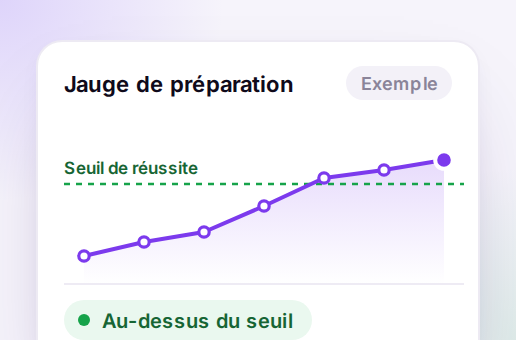
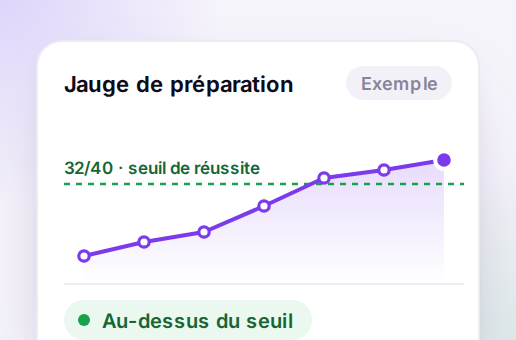
Newsletter CiviCap : textes qui disent quelque chose, visuel en français
Accroche : « 40 questions, 45 minutes, 32 bonnes réponses exigées » et
« Gratuit, sans carte bancaire » sont retirés. Le sous-titre dit
l'obligation et ce qui en dépend : depuis le 1er janvier 2026, pas de
carte de séjour pluriannuelle, de carte de résident ni de naturalisation
sans l'attestation ; CiviCap entraîne les apprenants à l'obtenir. Le
bouton d'essai est réduit.

Visuel principal : plus d'arabe ni d'anglais. L'explication passe en
français, traduite de la version arabe de la démonstration du site, la
seule présente dans la copie transmise ; à remplacer par le texte exact.

Grille : l'introduction répond à son titre (examens blancs, correction,
mesure des progrès, et le temps rendu aux formateurs). L'examen blanc
dit ce qu'il est, 40 questions en 45 minutes aux règles officielles, et
à quoi il sert. La jauge nomme son seuil, 32/40, dans le texte comme
dans le visuel.

Bloc organisme : un vrai texte à la place du gabarit, sans prix, faute
d'en avoir un. Pied : les mentions d'indépendance et de source sont
retirées, il reste le désabonnement et l'adresse.

Claude-Session: https://claude.ai/code/session_01FeZWDqfAndBDqFz8uAYmmt

Changed region(s): [[0.3101, 0.4706, 0.5271, 0.5294], [0.124, 0.4706, 0.2791, 0.5294]]

diff --git a/travaux/newsletter-civicap/email.html b/travaux/newsletter-civicap/email.html
@@ -34,7 +34,7 @@
 
 <!-- texte d'aperçu affiché après l'objet dans la boîte de réception -->
 <div style="display:none;max-height:0;overflow:hidden;mso-hide:all;font-size:1px;line-height:1px;color:#F3F2F7;">
-  Ce que la liste officielle ne fera pas pour vos apprenants.
+  Examens blancs, correction, mesure des progrès : CiviCap s’en charge pour vous.
   &#8199;&#847;&zwnj;&nbsp;&#8199;&#847;&zwnj;&nbsp;&#8199;&#847;&zwnj;&nbsp;&#8199;&#847;&zwnj;&nbsp;&#8199;&#847;&zwnj;&nbsp;&#8199;&#847;&zwnj;&nbsp;&#8199;&#847;&zwnj;&nbsp;&#8199;&#847;&zwnj;&nbsp;&#8199;&#847;&zwnj;&nbsp;&#8199;&#847;&zwnj;&nbsp;&#8199;&#847;&zwnj;&nbsp;&#8199;&#847;&zwnj;&nbsp;
 </div>
 
@@ -55,17 +55,17 @@
     <h1 class="h1" style="margin:20px 0 0;font-family:Inter,-apple-system,BlinkMacSystemFont,'Segoe UI',Roboto,Helvetica,Arial,sans-serif;font-size:34px;line-height:1.12;letter-spacing:-.035em;font-weight:800;color:#0F0A1A;">
       L’examen civique est&nbsp;obligatoire.<br><span style="color:#6D28D9;">Votre préparation est&nbsp;prête.</span></h1>
     <p style="margin:18px auto 0;max-width:450px;font-family:Inter,-apple-system,BlinkMacSystemFont,'Segoe UI',Roboto,Helvetica,Arial,sans-serif;font-size:16px;line-height:1.6;color:#5B5670;">
-      40&nbsp;questions, 45&nbsp;minutes, 32&nbsp;bonnes réponses exigées. CiviCap entraîne vos
-      apprenants dans leur langue, à leur niveau. Vous n’avez rien à construire.</p>
-    <div style="height:26px;line-height:26px;font-size:0;">&nbsp;</div>
-    <table role="presentation" align="center" cellpadding="0" cellspacing="0" border="0"><tr><td align="center" bgcolor="#0F0A1A" style="border-radius:999px;"><a href="https://civicap.app/" style="display:inline-block;padding:14px 26px;font-family:Inter,-apple-system,BlinkMacSystemFont,'Segoe UI',Roboto,Helvetica,Arial,sans-serif;font-size:15px;font-weight:600;letter-spacing:-.01em;color:#FFFFFF;border-radius:999px;">Essayer gratuitement &nbsp;→</a></td></tr></table>
-    <p style="margin:12px 0 0;font-family:Inter,-apple-system,BlinkMacSystemFont,'Segoe UI',Roboto,Helvetica,Arial,sans-serif;font-size:12.5px;color:#8A8499;">Gratuit, sans carte bancaire.</p>
+      Depuis le 1<sup style="font-size:.7em;line-height:0;">er</sup>&nbsp;janvier&nbsp;2026, pas de carte de séjour pluriannuelle, de carte
+      de résident ni de naturalisation sans l’attestation de l’examen civique. CiviCap entraîne
+      vos apprenants à l’obtenir.</p>
+    <div style="height:24px;line-height:24px;font-size:0;">&nbsp;</div>
+    <table role="presentation" align="center" cellpadding="0" cellspacing="0" border="0"><tr><td align="center" bgcolor="#0F0A1A" style="border-radius:999px;"><a href="https://civicap.app/" style="display:inline-block;padding:10px 20px;font-family:Inter,-apple-system,BlinkMacSystemFont,'Segoe UI',Roboto,Helvetica,Arial,sans-serif;font-size:14px;font-weight:600;letter-spacing:-.01em;color:#FFFFFF;border-radius:999px;">Essayer gratuitement &nbsp;→</a></td></tr></table>
   </td></tr>
 
   <!-- ===================== visuel : la démonstration de CiviCap ===================== -->
   <tr><td class="pad" style="padding:36px 36px 0;">
     <img src="img/hero.png" width="528" height="340"
-         alt="La question « Que commémore la fête nationale du 14 juillet ? », la bonne réponse, l’explication en arabe et le choix du niveau A2, B1 ou B2."
+         alt="La question « Que commémore la fête nationale du 14 juillet ? », la bonne réponse corrigée à l’instant, son explication et le choix du niveau A2, B1 ou B2."
          style="display:block;width:100%;max-width:528px;height:auto;border:0;">
   </td></tr>
 
@@ -74,19 +74,20 @@
     <h2 class="h2" style="margin:0;font-family:Inter,-apple-system,BlinkMacSystemFont,'Segoe UI',Roboto,Helvetica,Arial,sans-serif;font-size:26px;line-height:1.15;letter-spacing:-.03em;font-weight:800;color:#0F0A1A;">
       Ce que CiviCap fait à&nbsp;votre&nbsp;place</h2>
     <p style="margin:10px auto 0;max-width:420px;font-family:Inter,-apple-system,BlinkMacSystemFont,'Segoe UI',Roboto,Helvetica,Arial,sans-serif;font-size:15px;line-height:1.55;color:#5B5670;">
-      Les questions du ministère sont publiques. Les lire ne fait réussir personne.</p>
+      Il fait passer les examens blancs, corrige chaque réponse et mesure les progrès de chaque
+      apprenant. Vos formateurs gardent leur temps pour enseigner.</p>
   </td></tr>
 
   <tr><td class="pad" style="padding:28px 36px 0;">
     <table role="presentation" width="100%" cellpadding="0" cellspacing="0" border="0">
-      <tr><td class="" width="528" valign="top" bgcolor="#F6F4FB" style="width:528px;background:#F6F4FB;border-radius:18px;"><img src="img/examen.png" width="528" height="210" alt="L’écran d’examen blanc : question 12 sur 40, le compte à rebours et le drapeau « à revoir »." style="display:block;width:100%;max-width:528px;height:auto;border:0;border-radius:18px 18px 0 0;"><div style="padding:16px 20px 20px;"><div style="font-family:Inter,-apple-system,BlinkMacSystemFont,'Segoe UI',Roboto,Helvetica,Arial,sans-serif;font-size:15.5px;line-height:1.3;font-weight:700;letter-spacing:-.015em;color:#0F0A1A;">Le jour J, sans surprise</div><div style="font-family:Inter,-apple-system,BlinkMacSystemFont,'Segoe UI',Roboto,Helvetica,Arial,sans-serif;font-size:13.5px;line-height:1.55;color:#5B5670;padding-top:5px;">Le compte à rebours, le drapeau «&nbsp;à revoir&nbsp;», la vérification finale avant de valider&nbsp;: le format officiel, à l’identique.</div></div></td></tr>
+      <tr><td class="" width="528" valign="top" bgcolor="#F6F4FB" style="width:528px;background:#F6F4FB;border-radius:18px;"><img src="img/examen.png" width="528" height="210" alt="L’écran d’examen blanc : question 12 sur 40, le compte à rebours et le drapeau « à revoir »." style="display:block;width:100%;max-width:528px;height:auto;border:0;border-radius:18px 18px 0 0;"><div style="padding:16px 20px 20px;"><div style="font-family:Inter,-apple-system,BlinkMacSystemFont,'Segoe UI',Roboto,Helvetica,Arial,sans-serif;font-size:15.5px;line-height:1.3;font-weight:700;letter-spacing:-.015em;color:#0F0A1A;">L’examen blanc, comme le vrai</div><div style="font-family:Inter,-apple-system,BlinkMacSystemFont,'Segoe UI',Roboto,Helvetica,Arial,sans-serif;font-size:13.5px;line-height:1.55;color:#5B5670;padding-top:5px;">40&nbsp;questions en 45&nbsp;minutes, avec les règles de l’examen officiel. Vos apprenants découvrent l’épreuve avant le jour&nbsp;J, pas pendant.</div></div></td></tr>
     </table>
     <div style="height:12px;line-height:12px;font-size:0;">&nbsp;</div>
     <table role="presentation" width="100%" cellpadding="0" cellspacing="0" border="0">
       <tr>
-        <td class="demi" width="258" valign="top" bgcolor="#F6F4FB" style="width:258px;background:#F6F4FB;border-radius:18px;"><img class="img-demi" src="img/bilan.png" width="258" height="170" alt="Exemple de bilan : une barre par thème, le thème Histoire en retrait." style="display:block;width:100%;max-width:258px;height:auto;border:0;border-radius:18px 18px 0 0;"><div style="padding:16px 20px 20px;"><div style="font-family:Inter,-apple-system,BlinkMacSystemFont,'Segoe UI',Roboto,Helvetica,Arial,sans-serif;font-size:15.5px;line-height:1.3;font-weight:700;letter-spacing:-.015em;color:#0F0A1A;">Le bilan par thème</div><div style="font-family:Inter,-apple-system,BlinkMacSystemFont,'Segoe UI',Roboto,Helvetica,Arial,sans-serif;font-size:13.5px;line-height:1.55;color:#5B5670;padding-top:5px;">Les six thèmes du programme officiel&nbsp;: où ça décroche, quoi revoir ensuite.</div></div></td>
+        <td class="demi" width="258" valign="top" bgcolor="#F6F4FB" style="width:258px;background:#F6F4FB;border-radius:18px;"><img class="img-demi" src="img/bilan.png" width="258" height="170" alt="Exemple de bilan : une barre par thème, le thème Histoire en retrait." style="display:block;width:100%;max-width:258px;height:auto;border:0;border-radius:18px 18px 0 0;"><div style="padding:16px 20px 20px;"><div style="font-family:Inter,-apple-system,BlinkMacSystemFont,'Segoe UI',Roboto,Helvetica,Arial,sans-serif;font-size:15.5px;line-height:1.3;font-weight:700;letter-spacing:-.015em;color:#0F0A1A;">Le bilan par thème</div><div style="font-family:Inter,-apple-system,BlinkMacSystemFont,'Segoe UI',Roboto,Helvetica,Arial,sans-serif;font-size:13.5px;line-height:1.55;color:#5B5670;padding-top:5px;">Les six thèmes du programme officiel, un par un&nbsp;: où l’apprenant décroche, et quoi revoir ensuite.</div></div></td>
         <td class="sp" width="12" style="width:12px;font-size:0;line-height:0;">&nbsp;</td>
-        <td class="demi" width="258" valign="top" bgcolor="#F6F4FB" style="width:258px;background:#F6F4FB;border-radius:18px;"><img class="img-demi" src="img/jauge.png" width="258" height="170" alt="Exemple de jauge : les derniers examens blancs passent au-dessus du seuil de réussite." style="display:block;width:100%;max-width:258px;height:auto;border:0;border-radius:18px 18px 0 0;"><div style="padding:16px 20px 20px;"><div style="font-family:Inter,-apple-system,BlinkMacSystemFont,'Segoe UI',Roboto,Helvetica,Arial,sans-serif;font-size:15.5px;line-height:1.3;font-weight:700;letter-spacing:-.015em;color:#0F0A1A;">La jauge de préparation</div><div style="font-family:Inter,-apple-system,BlinkMacSystemFont,'Segoe UI',Roboto,Helvetica,Arial,sans-serif;font-size:13.5px;line-height:1.55;color:#5B5670;padding-top:5px;">L’apprenant voit quand il passe régulièrement le seuil. Il se présente prêt.</div></div></td>
+        <td class="demi" width="258" valign="top" bgcolor="#F6F4FB" style="width:258px;background:#F6F4FB;border-radius:18px;"><img class="img-demi" src="img/jauge.png" width="258" height="170" alt="Exemple de jauge : les derniers examens blancs passent au-dessus du seuil de réussite." style="display:block;width:100%;max-width:258px;height:auto;border:0;border-radius:18px 18px 0 0;"><div style="padding:16px 20px 20px;"><div style="font-family:Inter,-apple-system,BlinkMacSystemFont,'Segoe UI',Roboto,Helvetica,Arial,sans-serif;font-size:15.5px;line-height:1.3;font-weight:700;letter-spacing:-.015em;color:#0F0A1A;">La jauge de préparation</div><div style="font-family:Inter,-apple-system,BlinkMacSystemFont,'Segoe UI',Roboto,Helvetica,Arial,sans-serif;font-size:13.5px;line-height:1.55;color:#5B5670;padding-top:5px;">Elle montre quand l’apprenant obtient régulièrement 32/40, le score exigé à l’examen. Il s’inscrit quand il est prêt.</div></div></td>
       </tr>
     </table>
   </td></tr>
@@ -108,26 +109,16 @@
         <h2 class="h2" style="margin:0;font-family:Inter,-apple-system,BlinkMacSystemFont,'Segoe UI',Roboto,Helvetica,Arial,sans-serif;font-size:24px;line-height:1.2;letter-spacing:-.03em;font-weight:800;color:#FFFFFF;">
           Pour votre organisme</h2>
         <p style="margin:12px auto 24px;max-width:400px;font-family:Inter,-apple-system,BlinkMacSystemFont,'Segoe UI',Roboto,Helvetica,Arial,sans-serif;font-size:14.5px;line-height:1.6;color:#C3BBD6;">
-          <!-- À COMPLÉTER : licences groupées, suivi des apprenants, tarif organisme,
-               interlocuteur. Rien de tout cela ne figure dans les éléments fournis. -->
-          [À compléter&nbsp;: nombre de licences, suivi des apprenants par le formateur,
-          tarif organisme, interlocuteur commercial.]</p>
+          Équipez tous vos groupes en une fois. Dites-nous combien d’apprenants vous préparez&nbsp;:
+          nous vous présentons CiviCap et une offre à votre mesure.</p>
         <table role="presentation" align="center" cellpadding="0" cellspacing="0" border="0"><tr><td align="center" bgcolor="#FFFFFF" style="border-radius:999px;"><a href="[LIEN_DEMO]" style="display:inline-block;padding:14px 26px;font-family:Inter,-apple-system,BlinkMacSystemFont,'Segoe UI',Roboto,Helvetica,Arial,sans-serif;font-size:15px;font-weight:600;letter-spacing:-.01em;color:#0F0A1A;border-radius:999px;">Demander une démo &nbsp;→</a></td></tr></table>
       </td></tr>
     </table>
   </td></tr>
 
   <!-- ===================== pied ===================== -->
-  <tr><td class="pad" align="center" style="padding:40px 44px 36px;">
+  <tr><td class="pad" align="center" style="padding:36px 44px 34px;">
     <p style="margin:0;font-family:Inter,-apple-system,BlinkMacSystemFont,'Segoe UI',Roboto,Helvetica,Arial,sans-serif;font-size:11.5px;line-height:1.65;color:#8A8499;">
-      CiviCap est un produit d’entraînement indépendant. Il n’est affilié ni au ministère de
-      l’Intérieur, ni à France Éducation international, ni aux CCI. L’inscription à l’examen
-      civique se fait uniquement auprès des centres agréés.</p>
-    <p style="margin:10px 0 0;font-family:Inter,-apple-system,BlinkMacSystemFont,'Segoe UI',Roboto,Helvetica,Arial,sans-serif;font-size:11.5px;line-height:1.65;color:#8A8499;">
-      Questions de connaissances&nbsp;: ministère de l’Intérieur, arrêté du 10&nbsp;octobre 2025,
-      publiques et gratuites sous Licence Ouverte. Les réponses, les explications et les mises en
-      situation sont originales.</p>
-    <p style="margin:14px 0 0;font-family:Inter,-apple-system,BlinkMacSystemFont,'Segoe UI',Roboto,Helvetica,Arial,sans-serif;font-size:11.5px;line-height:1.65;color:#8A8499;">
       <a href="[LIEN_DESABONNEMENT]" style="color:#6D28D9;text-decoration:underline;">Se désabonner</a>
       &nbsp;·&nbsp; [Raison sociale, adresse postale]</p>
   </td></tr>

diff --git a/travaux/newsletter-civicap/index.html b/travaux/newsletter-civicap/index.html
@@ -47,9 +47,7 @@ pre.txt{margin:16px 0 0;padding:20px 22px;background:var(--cream-0);border:1px s
 
   <section class="bloc">
     <h2>L'accroche</h2>
-    <p>Deux lignes. La première dit pourquoi l'organisme doit s'en occuper&nbsp;: c'est la loi.
-      La seconde dit ce qu'il y gagne&nbsp;: il n'a rien à construire. Le détail du service
-      tient dans le sous-titre, pas dans l'accroche.</p>
+    <p>Deux lignes. La première dit l'obligation, la seconde ce que l'organisme y gagne. Le sous-titre dit ce qui en dépend pour ses apprenants&nbsp;: depuis le 1er&nbsp;janvier 2026, pas de carte de séjour pluriannuelle, de carte de résident ni de naturalisation sans l'attestation.</p>
     <ul class="objets">
       <li><i>A</i><b>L'examen civique est obligatoire.<br>Votre préparation est prête.</b><span>Retenue</span></li>
       <li><i>B</i><b>Un examen de plus pour vos apprenants.<br>Une préparation de moins à construire pour vous.</b><span>Variante</span></li>
@@ -71,7 +69,7 @@ pre.txt{margin:16px 0 0;padding:20px 22px;background:var(--cream-0);border:1px s
       <li><i>B</i><b>40 questions, 32 bonnes réponses : l'examen civique a changé la donne</b><span>63 car.</span></li>
       <li><i>C</i><b>Les questions de l'examen civique sont gratuites. Pas la préparation.</b><span>66 car.</span></li>
     </ul>
-    <p style="margin-top:14px"><b>Aperçu</b> (texte affiché après l'objet)&nbsp;: «&nbsp;Ce que la liste officielle ne fera pas pour vos apprenants.&nbsp;» Il ne répète ni l'objet ni l'accroche&nbsp;: il ouvre une question à laquelle le corps de l'e-mail répond.</p>
+    <p style="margin-top:14px"><b>Aperçu</b> (texte affiché après l'objet)&nbsp;: «&nbsp;Examens blancs, correction, mesure des progrès&nbsp;: CiviCap s'en charge pour vous.&nbsp;» Il annonce le corps de l'e-mail sans répéter l'objet.</p>
   </section>
 
   <section class="bloc">
@@ -81,9 +79,10 @@ pre.txt{margin:16px 0 0;padding:20px 22px;background:var(--cream-0);border:1px s
       que CiviCap montre lui-même sur son site.</p>
     <ul class="manques">
       <li><span><b>La démonstration.</b> La question «&nbsp;Que commémore la fête nationale
-        du 14&nbsp;juillet&nbsp;?&nbsp;», sa bonne réponse et l'explication en arabe sont celles
-        de la page d'accueil de CiviCap, avec le sélecteur de langue et les niveaux
-        A2&nbsp;/&nbsp;B1&nbsp;/&nbsp;B2.</span></li>
+        du 14&nbsp;juillet&nbsp;?&nbsp;» et sa bonne réponse sont celles de la page d'accueil de
+        CiviCap, avec les niveaux A2&nbsp;/&nbsp;B1&nbsp;/&nbsp;B2. <b>L'explication est une
+        traduction</b>&nbsp;: la copie du site que j'ai reçue ne la donnait qu'en arabe. À remplacer par
+        le texte français exact de CiviCap.</span></li>
       <li><span><b>L'examen blanc</b>&nbsp;: compte à rebours, drapeau «&nbsp;à revoir&nbsp;»,
         tel que la page Examen blanc le décrit. Le texte de la question est remplacé par des
         barres grises, faute d'une vraie question à y mettre.</span></li>
@@ -108,28 +107,28 @@ pre.txt{margin:16px 0 0;padding:20px 22px;background:var(--cream-0);border:1px s
 L'examen civique est obligatoire.
 Votre préparation est prête.
 
-40 questions, 45 minutes, 32 bonnes réponses exigées. CiviCap entraîne
-vos apprenants dans leur langue, à leur niveau. Vous n'avez rien à
-construire.
+Depuis le 1er janvier 2026, pas de carte de séjour pluriannuelle, de
+carte de résident ni de naturalisation sans l'attestation de l'examen
+civique. CiviCap entraîne vos apprenants à l'obtenir.
 
 Essayer gratuitement : https://civicap.app/
-Gratuit, sans carte bancaire.
 
 CE QUE CIVICAP FAIT À VOTRE PLACE
-Les questions du ministère sont publiques. Les lire ne fait réussir
-personne.
+Il fait passer les examens blancs, corrige chaque réponse et mesure les
+progrès de chaque apprenant. Vos formateurs gardent leur temps pour
+enseigner.
 
-Le jour J, sans surprise
-Le compte à rebours, le drapeau « à revoir », la vérification finale
-avant de valider : le format officiel, à l'identique.
+L'examen blanc, comme le vrai
+40 questions en 45 minutes, avec les règles de l'examen officiel. Vos
+apprenants découvrent l'épreuve avant le jour J, pas pendant.
 
 Le bilan par thème
-Les six thèmes du programme officiel : où ça décroche, quoi revoir
-ensuite.
+Les six thèmes du programme officiel, un par un : où l'apprenant
+décroche, et quoi revoir ensuite.
 
 La jauge de préparation
-L'apprenant voit quand il passe régulièrement le seuil. Il se présente
-prêt.
+Elle montre quand l'apprenant obtient régulièrement 32/40, le score
+exigé à l'examen. Il s'inscrit quand il est prêt.
 
 835 QUESTIONS OFFICIELLES · TROIS PARCOURS
 235  Carte de séjour pluriannuelle
@@ -137,34 +136,23 @@ prêt.
 343  Naturalisation
 
 POUR VOTRE ORGANISME
-[À compléter : nombre de licences, suivi des apprenants par le
-formateur, tarif organisme, interlocuteur commercial.]
+Équipez tous vos groupes en une fois. Dites-nous combien d'apprenants
+vous préparez : nous vous présentons CiviCap et une offre à votre mesure.
 Demander une démo : [LIEN_DEMO]
 
 —
-CiviCap est un produit d'entraînement indépendant. Il n'est affilié ni au
-ministère de l'Intérieur, ni à France Éducation international, ni aux
-CCI. L'inscription à l'examen civique se fait uniquement auprès des
-centres agréés.
-
-Questions de connaissances : ministère de l'Intérieur, arrêté du
-10 octobre 2025, publiques et gratuites sous Licence Ouverte. Les
-réponses, les explications et les mises en situation sont originales.
-
 Se désabonner : [LIEN_DESABONNEMENT]
 [Raison sociale, adresse postale]</pre>
   </section>
 
   <section class="bloc">
     <h2>Avant d'envoyer</h2>
-    <p>Huit points. Les quatre premiers bloquent l'envoi, les suivants sont des arbitrages ou des réglages.</p>
+    <p>Les quatre premiers points bloquent l'envoi, les suivants sont des arbitrages ou des réglages.</p>
     <ul class="manques">
-      <li><span><b>L'offre organisme est vide.</b> C'est le trou central&nbsp;: rien dans les
-        éléments fournis ne dit comment un organisme achète CiviCap pour ses apprenants. Les seuls
-        tarifs connus sont individuels (7&nbsp;j&nbsp;4,99&nbsp;€, 30&nbsp;j&nbsp;9,99&nbsp;€,
-        90&nbsp;j&nbsp;24,99&nbsp;€). Un organisme a besoin de licences groupées, d'un suivi de ses
-        apprenants et d'une facture. Tant que ce bloc n'est pas rempli, l'e-mail n'a pas de
-        promesse pour son destinataire.</span></li>
+      <li><span><b>L'offre organisme n'annonce pas de prix.</b> Le bloc invite à demander une
+        démo sans chiffre, parce que je n'en ai aucun pour les organismes&nbsp;: les seuls tarifs
+        connus sont individuels (7&nbsp;j 4,99&nbsp;€, 30&nbsp;j 9,99&nbsp;€, 90&nbsp;j 24,99&nbsp;€).
+        Donnez-moi un prix ou un modèle de licence et je l'ajoute.</span></li>
       <li><span><b>Le lien de désabonnement, l'adresse postale et le lien de démo</b> sont en
         gabarit (<code>[LIEN_DESABONNEMENT]</code>, <code>[LIEN_DEMO]</code>). Les deux premiers
         sont obligatoires&nbsp;; le troisième ne doit pas renvoyer vers l'accueil grand public.</span></li>
@@ -182,6 +170,9 @@ Se désabonner : [LIEN_DESABONNEMENT]
         j'ajoute un bloc.</span></li>
       <li><span><b>Le bouton d'essai pointe vers la racine</b> <code>civicap.app</code>. À remplacer
         par la page d'inscription, et à baliser si vous suivez les campagnes.</span></li>
+      <li><span><b>Les mentions de pied ont été retirées à votre demande</b>&nbsp;: indépendance
+        vis-à-vis du ministère et source des questions officielles. Elles restent utiles sur la
+        page d'arrivée, puisque le visuel montre une question du programme.</span></li>
       <li><span><b>La police Inter</b> ne s'affiche que dans Apple Mail et sur iPhone. Gmail et
         Outlook prennent la police système&nbsp;: la mise en page tient, le titre reste sur deux
         lignes.</span></li>

diff --git a/tools/illustrations-civicap.py b/tools/illustrations-civicap.py
@@ -7,14 +7,14 @@ tout ce qui fait le style « vitrine » est cuit dans l'image, le texte de l'e-m
 reste du HTML. Les coins arrondis aussi sont cuits, sur le blanc du conteneur,
 pour qu'Outlook ne les rende pas carrés.
 
-Le contenu vient uniquement de ce que CiviCap montre sur son propre site : la
-question de démonstration du 14 juillet et son explication en arabe, les niveaux
-A2/B1/B2, le chrono et le drapeau « à revoir » de l'examen blanc, le bilan par
+Le contenu vient de ce que CiviCap montre sur son propre site : la question de
+démonstration du 14 juillet, sa bonne réponse et son explication (traduite de la
+version arabe, la seule présente dans la copie du site transmise), les niveaux A2/B1/B2, le chrono et le drapeau « à revoir » de l'examen blanc, le bilan par
 thème, la jauge de préparation. Le bilan et la jauge portent la mention
 « Exemple » : leurs barres et leur courbe ne sont les résultats de personne.
 
-Polices : Inter et Noto Sans Arabic, téléchargées depuis Google Fonts au premier
-lancement (curl), mises en cache, puis intégrées en base64. Régénérer demande donc
+Police : Inter, téléchargée depuis Google Fonts au premier lancement (curl), mise
+en cache, puis intégrée en base64. Régénérer demande donc
 un accès réseau la première fois.
 """
 import base64, json, pathlib, re, subprocess, tempfile, textwrap
@@ -27,13 +27,14 @@ UA = "Mozilla/5.0 (Windows NT 10.0; Win64; x64) AppleWebKit/537.36 Chrome/126.0 
 
 POLICES = {  # fichier en cache : (famille Google Fonts, sous-ensemble)
     "inter-latin.woff2": ("Inter:wght@400..800", "latin"),
-    "noto-arabic.woff2": ("Noto+Sans+Arabic:wght@400..700", "arabic"),
 }
 
-# l'explication telle qu'elle figure sur civicap.app, onglet العربية
-ARABE = ("الرابع عشر من يوليو هو العيد الوطني الفرنسي. يُحيي ذكرى اقتحام سجن الباستيل عام 1789، "
-         "رمز نهاية الملكية المطلقة، وكذلك عيد الاتحاد عام 1790. ويُحتفى فيه بقيم الجمهورية: "
-         "الحرية والمساواة والإخاء.")
+# L'explication de la démonstration de civicap.app, traduite de sa version arabe : la copie
+# du site transmise ne donnait pas la version française. À remplacer par le texte français exact de CiviCap.
+EXPLICATION = ("Le 14 juillet est la fête nationale française. Il commémore la prise de la Bastille "
+               "en 1789, symbole de la fin de la monarchie absolue, ainsi que la fête de la "
+               "Fédération de 1790. On y célèbre les valeurs de la République : liberté, égalité, "
+               "fraternité.")
 
 
 def polices_css():
@@ -50,9 +51,7 @@ def polices_css():
         subprocess.run(["curl", "-sS", url, "-o", str(cible)], check=True)
     b64 = lambda f: base64.b64encode((CACHE / f).read_bytes()).decode()
     return (f"@font-face{{font-family:'Inter';font-weight:400 800;"
-            f"src:url(data:font/woff2;base64,{b64('inter-latin.woff2')}) format('woff2')}}"
-            f"@font-face{{font-family:'Noto Sans Arabic';font-weight:400 700;"
-            f"src:url(data:font/woff2;base64,{b64('noto-arabic.woff2')}) format('woff2')}}")
+            f"src:url(data:font/woff2;base64,{b64('inter-latin.woff2')}) format('woff2')}}")
 
 
 COCHE = ('<svg width="{s}" height="{s}" viewBox="0 0 12 12" fill="none"><path d="M2.5 6.3 4.9 8.6 9.6 3.6" '
@@ -85,7 +84,7 @@ body{font-family:Inter,sans-serif;-webkit-font-smoothing:antialiased;color:#0F0A
 
 
 def hero():
-    """La démonstration de CiviCap : la question, la bonne réponse, l'explication en arabe."""
+    """La démonstration de CiviCap : la question, la bonne réponse, l'explication au bon niveau."""
     w, h = 528, 340
     css = """
 .fond{position:absolute;inset:0;border-radius:22px;overflow:hidden;
@@ -103,13 +102,12 @@ def hero():
 .rep{margin-top:12px;display:flex;align-items:center;gap:9px;padding:9px 11px;border-radius:10px;
   background:#EEFBF3;border:1px solid #C6F0D5;font-size:13px;font-weight:600;color:#14532D}
 .sep{margin:14px 0 10px;height:1px;background:#EEEBF4}
-.seg .ar{font-family:'Noto Sans Arabic';font-size:11px;padding-top:2px;padding-bottom:3px}
-.ex{margin-top:10px;direction:rtl;text-align:right;font-family:'Noto Sans Arabic';font-size:12.5px;
-  line-height:1.8;color:#3D3850;height:68px;overflow:hidden;-webkit-mask-image:linear-gradient(#000 55%,transparent)}
-.niv{left:22px;top:250px;padding:11px 12px 12px}
+.ex{margin-top:8px;font-size:12.5px;line-height:1.65;color:#3D3850;height:64px;overflow:hidden;
+  -webkit-mask-image:linear-gradient(#000 50%,transparent)}
+.niv{right:22px;top:248px;padding:11px 12px 12px}
 .niv .seg span{font-size:11px;padding:5px 10px}
 .niv .seg .on{background:#6D28D9}
-.toast{right:24px;top:20px;display:flex;align-items:center;gap:8px;padding:8px 12px 8px 9px;
+.toast{left:26px;top:20px;display:flex;align-items:center;gap:8px;padding:8px 12px 8px 9px;
   border-radius:999px;font-size:11.5px;font-weight:600}
 .toast .ok{width:16px;height:16px}
 """
@@ -120,9 +118,8 @@ def hero():
   <div class="question">Que commémore la fête nationale du&nbsp;14&nbsp;juillet&nbsp;?</div>
   <div class="rep"><span class="ok">{COCHE.format(s=10)}</span>La prise de la Bastille (1789)</div>
   <div class="sep"></div>
-  <div class="ligne"><span class="eti">Explication</span>
-    <div class="seg"><span>Français</span><span class="on ar">العربية</span><span>English</span></div></div>
-  <div class="ex">{ARABE}</div>
+  <div class="eti">Explication</div>
+  <div class="ex">{EXPLICATION}</div>
 </div>
 <div class="carte niv"><div class="eti" style="margin:0 0 7px 2px">Niveau</div>
   <div class="seg"><span>A2</span><span class="on">B1</span><span>B2</span></div></div>
@@ -237,7 +234,7 @@ def jauge():
   <path d="M0 84H200" stroke="#EEEBF4" stroke-width="1"/>
   <path d="{aire}" fill="url(#a)"/>
   <path d="M0 34H200" stroke="#16A34A" stroke-width="1.2" stroke-dasharray="3 3"/>
-  <text x="0" y="29" font-family="Inter" font-size="8.5" font-weight="600" fill="#166534">Seuil de réussite</text>
+  <text x="0" y="29" font-family="Inter" font-size="8.5" font-weight="600" fill="#166534">32/40 · seuil de réussite</text>
   <polyline points="{trace}" fill="none" stroke="#7C3AED" stroke-width="2" stroke-linecap="round" stroke-linejoin="round"/>
   {points}<circle cx="{x}" cy="{y}" r="4.4" fill="#7C3AED" stroke="#fff" stroke-width="2"/>
 </svg>"""

diff --git a/travaux/README.md b/travaux/README.md
@@ -30,14 +30,16 @@ l'aperçu, la version texte et la liste de ce qui reste à fournir.
 
 `img/` porte les quatre visuels de l'e-mail, fabriqués par
 `tools/illustrations-civicap.py` : la démonstration (question du 14 juillet,
-explication en arabe, niveaux), l'écran d'examen blanc, le bilan par thème et la
+bonne réponse, explication, niveaux), l'écran d'examen blanc, le bilan par thème et la
 jauge de préparation. Chaque visuel est une page HTML/CSS rendue en PNG double
 densité par Chromium : les messageries n'affichent ni SVG ni dégradés fiables.
 
 Le contenu vient de ce que CiviCap montre sur son propre site ; le bilan et la
 jauge portent la mention « Exemple ». Aucune personne, aucun résultat présenté
-comme réel. Le script télécharge Inter et Noto Sans Arabic depuis Google Fonts au
-premier lancement : il faut un accès réseau pour régénérer.
+comme réel. L'explication du 14 juillet est traduite de sa version arabe, la seule
+présente dans la copie du site transmise : à remplacer par le texte exact de CiviCap. Le script
+télécharge Inter depuis Google Fonts au premier lancement : il faut un accès réseau
+pour régénérer.
 
 Le logo `logo-civicap.png` est un recadrage de la capture d'écran fournie
 (313 × 111 px, fond ramené au blanc pur par remplissage depuis les bords) :
